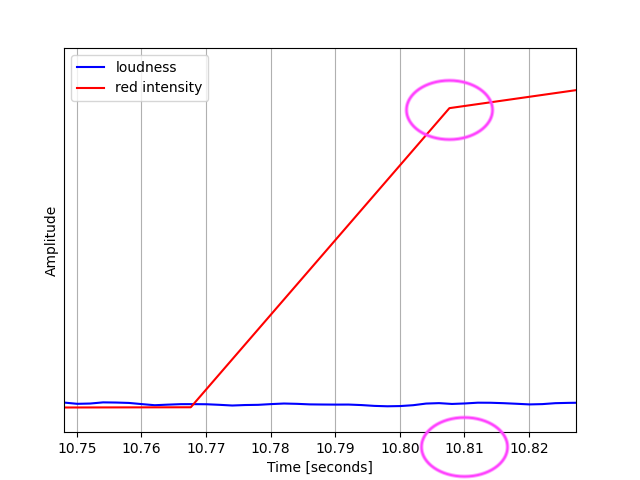
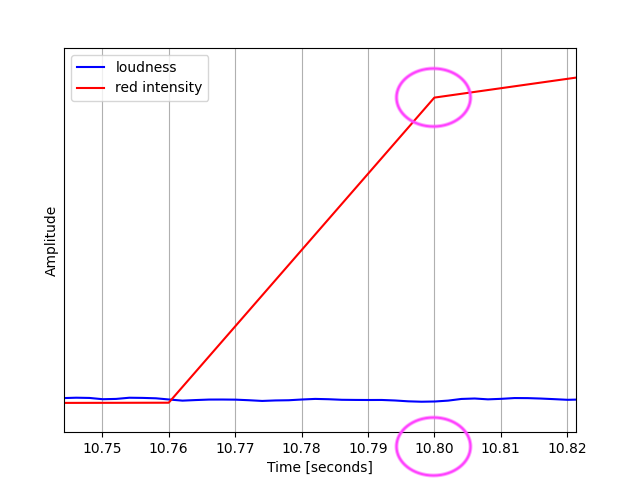
Fixed inconsistency in how video time axis computed

Changed region(s): [[0.0938, 0.125, 0.9062, 1.0]]

diff --git a/plot_delay.py b/plot_delay.py
@@ -111,6 +111,9 @@ while cap.isOpened():
 cap.release()
 cv2.destroyAllWindows()
 
+# Create time axis for video based on frame rate
+time_video = 0.04*np.linspace(0., nframes, nframes, endpoint=False)
+
 #
 # Plot signals
 #
@@ -126,9 +129,6 @@ time_max = time_audio[-1]
 # Get min and max of amplitude axis
 amp_min = np.min(red_intensity) - 0.1*( np.max(red_intensity) - np.min(red_intensity) )
 amp_max = np.max(red_intensity) + 0.1*( np.max(red_intensity) - np.min(red_intensity) )
-
-# Create time axis variable for video matching audio time axis
-time_video = np.linspace(time_min, time_max, len(red_intensity))
 
 # Plot
 fig = plt.figure()
